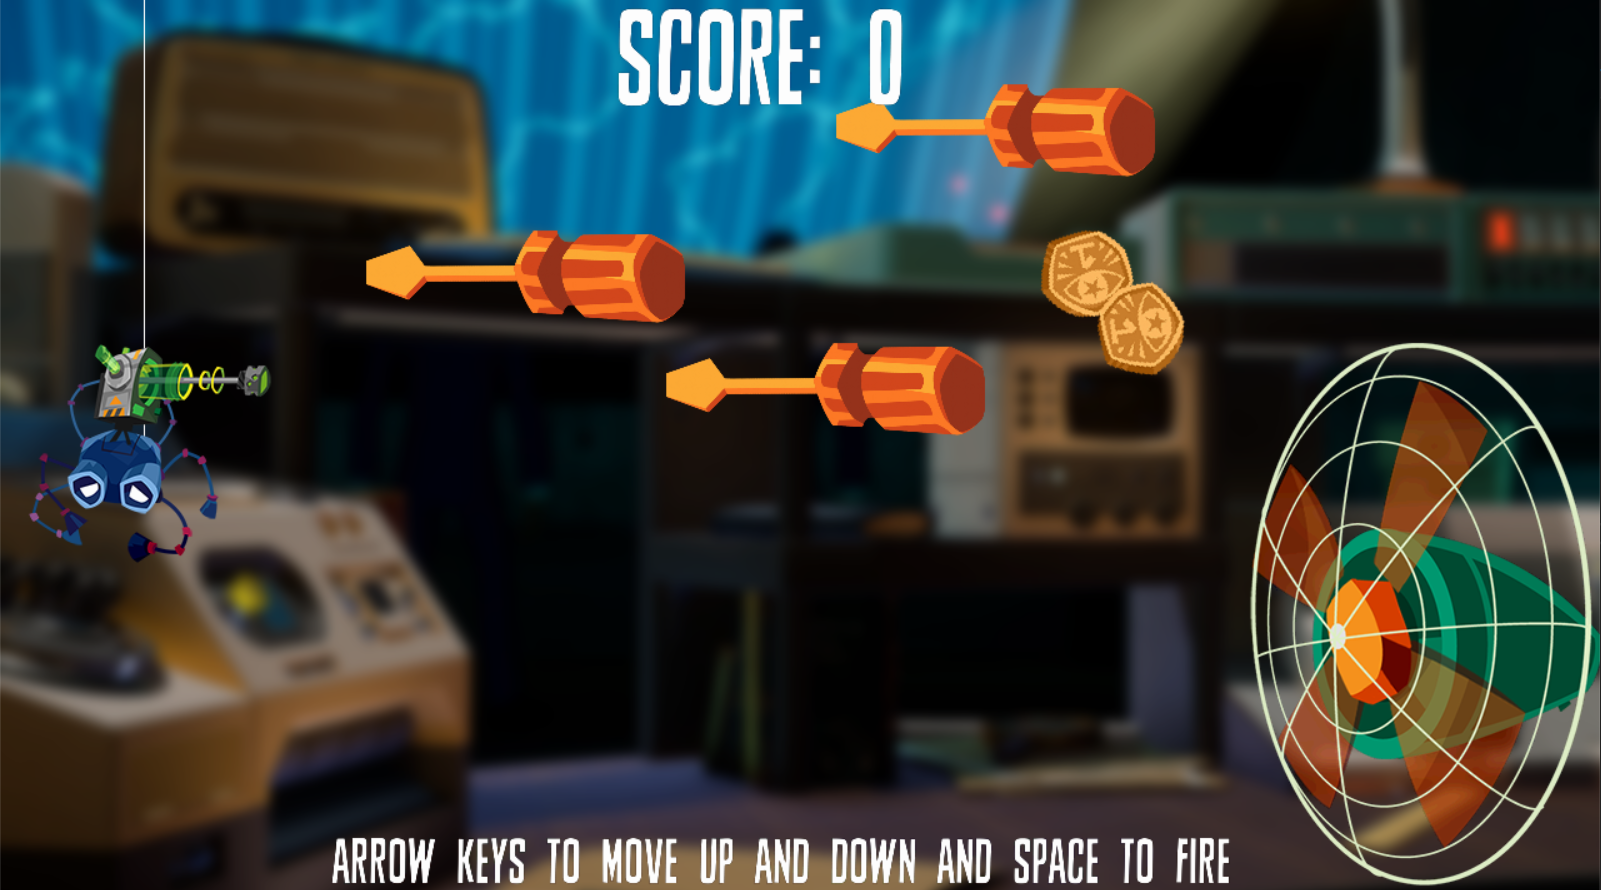
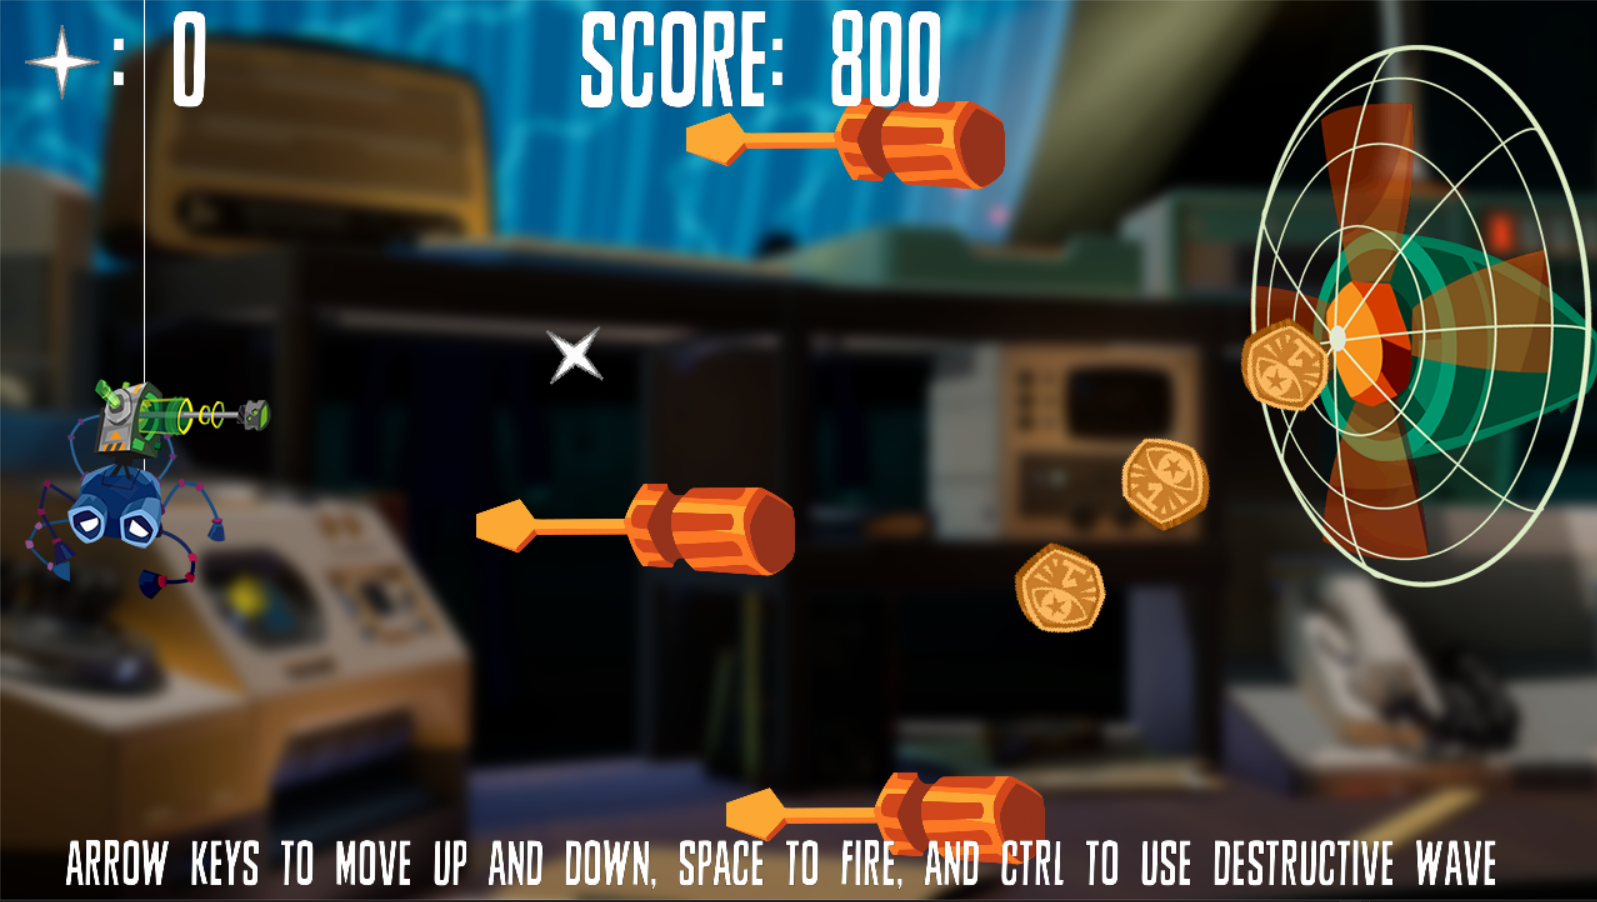
writing changes and update for spywire project

diff --git a/sling.html b/sling.html
@@ -51,10 +51,10 @@
                         <strong>2016</strong>
                         <br>
                         <br>
-                        <p>Avoid incoming obstacles with a ball hanging on to a handle, sling it around to maneuver around the
+                        <p>Avoid hitting the incoming obstacles with the ball hanging off your finger. Sling it around to maneuver through the
                             obstacles to see how far you can get, and unlock new balls to show off your achievements.</p>
-                        <p>A mobile game developed using Unity for the android platform. It was previously published on the Google
-                            Playstore where it accumulated over 400 downloads. However, it has since been taken down as it is no longer supported.
+                        <p>A mobile game that I developed using Unity for the android platform. I had previously published it on the Google
+                            Playstore where it accumulated over 400 downloads. However, I have since taken it down as it is no longer supported.
                         </p>
                         <img class="portfolio-image" src="images/Software/sling/unnamed (4).png">
                         <p>Screenshot during gameplay</p>

diff --git a/spywire.html b/spywire.html
@@ -56,9 +56,12 @@
                         </a>
                         <br>
                         <br>
-                        <p>My attempt at following the introduction to playbuffer. A single-header library that is meant to be a simple introduction to C++ game
+                        <p>My attempt at following the introduction to playbuffer as well as adding functionality. PlayBuffer is a single-header library that is meant to be a simple introduction to C++ game
                              development by Sumo Digital Academy.
                         </p>
+                        <p>In addition to the standard features implemented as part of the tutorial, I added an additional feature that involves collecting tokens that can be used to induce a
+                            destructive wave that will clear the arena of obstacles. This version can be found in the 'destruction_wave' branch within the git repository.
+                       </p>
                         <a href="playbuffer: https://github.com/sumo-digital-academy/playbuffer">Sumo Digital Academy PlayBuffer</a>
                         <br>
                         <br>

diff --git a/dodge.html b/dodge.html
@@ -54,8 +54,8 @@
                         <p>Ever wanted your finger chased by a rotating pizza? Then this is the game for you! The game is deceptively
                             easy but tricky to master. The concept is simple, move your finger to dodge spinning object of destruction.
                             The faster you are the further you can get.</p>
-                        <p>A mobile game developed using Unity for the android platform. It was previously published on the Google
-                            Playstore. However, it has since been taken down as it is no longer supported.
+                        <p>A mobile game that I developed using Unity for the android platform. I had previously published it on the Google
+                            Playstore. However, I have since taken it down as it is no longer supported.
                         </p>
                         <img class="portfolio-image" src="images/Software/dodge/unnamed (1).png">
                         <p>Screenshot during gameplay</p>

diff --git a/vrdrive.html b/vrdrive.html
@@ -52,7 +52,7 @@
                         <br>
                         <br>
                         <p>Speed through traffic without crashing for as long as you can.</p>
-                        <p>This game was developed for the Steam VR platform using Unity. The player can use their
+                        <p>I developed this game for the Steam VR platform using Unity. The player can use their
                             motion controller to grab the steering wheel of the vehicle in order to maneuver it through
                             traffic on the highway while traveling at a constant high speed. 
                         </p>
